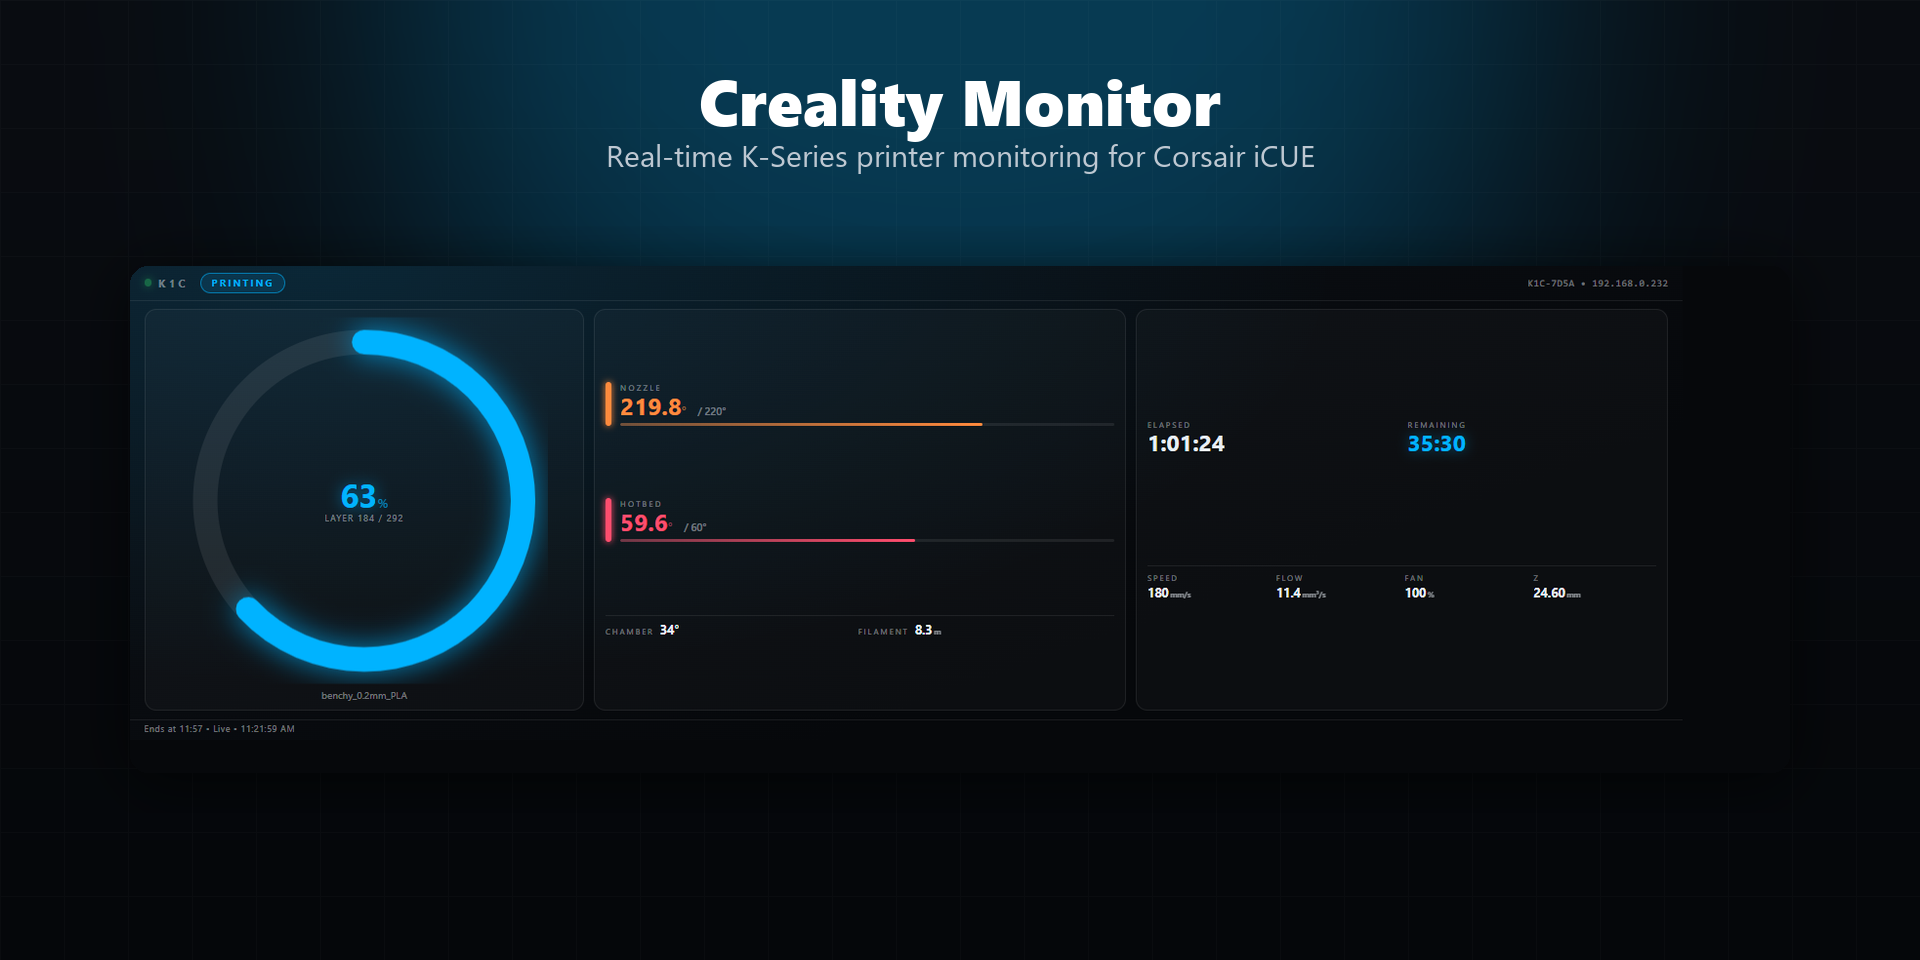
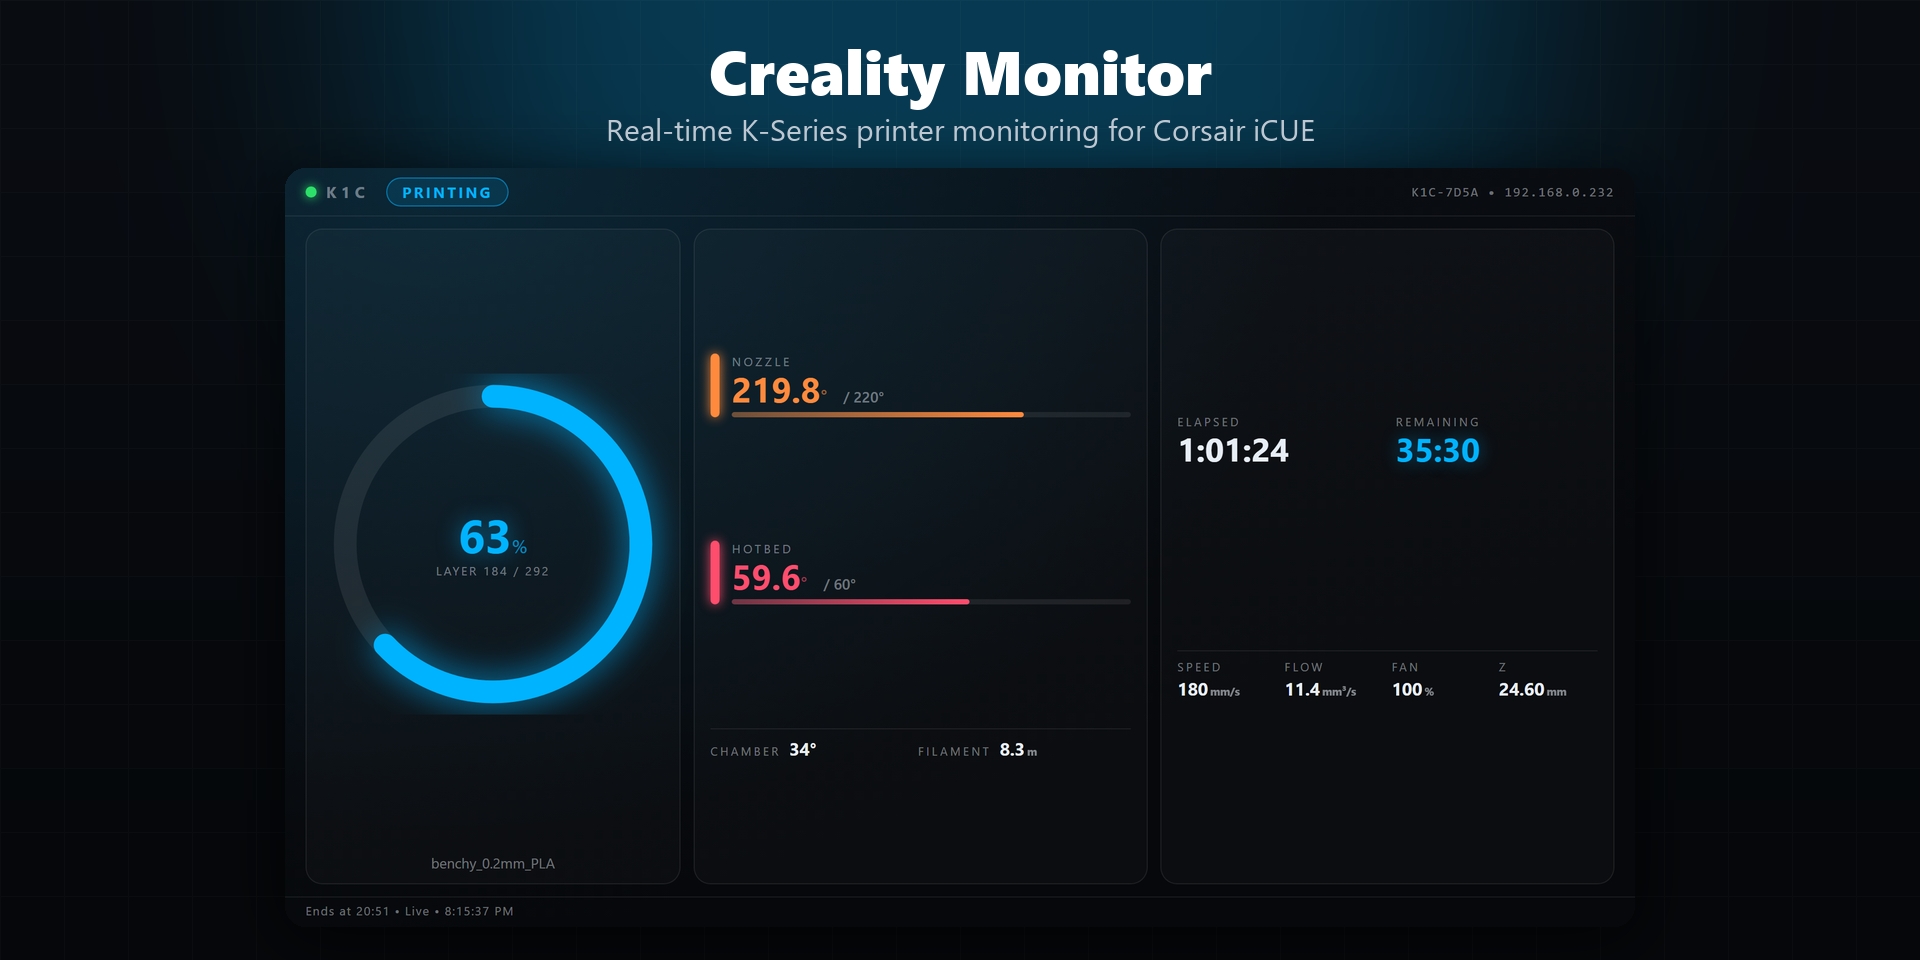
Media: real widget renders (5 states), new thumbnail/gallery and render tooling

diff --git a/tools/compose_media.py b/tools/compose_media.py
@@ -1,13 +1,9 @@
-"""Compose marketplace Thumbnail (1920x960) and Gallery (1920x960) images
-from raw widget screenshots, matching the widget's own dark theme.
+"""Composes the Marketplace thumbnail + gallery images (1920x960 PNG) from real renders of
+the widget (see render_shots.py). Each image = real widget screenshot + one short caption.
 
-Usage:
-  1. Open CrealityMonitor_Template/index.html in a browser, inject sample
-     `data`/`settings` and call `render()` to reach the desired visual state
-     (see the session notes for the exact snippets used).
-  2. Save full-page screenshots next to this script (e.g. shot_printing.png,
-     shot_complete.png).
-  3. Run `python tools/compose_media.py` from the repo root.
+Usage (from repo root):
+  python tools/render_shots.py
+  python tools/compose_media.py
 """
 from pathlib import Path
 
@@ -18,7 +14,15 @@ BG_TOP = (10, 13, 18)
 BG_BOTTOM = (5, 7, 10)
 FONT_DIR = r"C:\Windows\Fonts"
 ROOT = Path(__file__).resolve().parent.parent
+SHOTS = Path(__file__).resolve().parent / "_shots"
 MEDIA_DIR = ROOT / "media"
+
+ACCENT_BLUE = (0, 179, 255)
+ACCENT_GREEN = (46, 227, 107)
+ACCENT_AMBER = (255, 176, 32)
+ACCENT_RED = (255, 59, 59)
+
+CARD_W = 1350  # widget card width on the 1920 canvas (16:9 -> 759 tall)
 
 
 def vertical_gradient(size, top, bottom):
@@ -26,53 +30,40 @@ def vertical_gradient(size, top, bottom):
     base = Image.new("RGB", (1, h))
     for y in range(h):
         t = y / max(h - 1, 1)
-        px = tuple(int(top[i] + (bottom[i] - top[i]) * t) for i in range(3))
-        base.putpixel((0, y), px)
+        base.putpixel((0, y), tuple(int(top[i] + (bottom[i] - top[i]) * t) for i in range(3)))
     return base.resize((w, h))
 
 
 def rounded_mask(size, radius):
     mask = Image.new("L", size, 0)
-    d = ImageDraw.Draw(mask)
-    d.rounded_rectangle([0, 0, size[0] - 1, size[1] - 1], radius=radius, fill=255)
+    ImageDraw.Draw(mask).rounded_rectangle([0, 0, size[0] - 1, size[1] - 1], radius=radius, fill=255)
     return mask
 
 
 def soft_glow(size, color, blur):
     glow = Image.new("RGBA", size, (0, 0, 0, 0))
-    d = ImageDraw.Draw(glow)
-    d.ellipse([size[0] * 0.15, -size[1] * 0.4, size[0] * 0.85, size[1] * 0.6], fill=color)
+    ImageDraw.Draw(glow).ellipse([size[0] * 0.15, -size[1] * 0.4, size[0] * 0.85, size[1] * 0.6], fill=color)
     return glow.filter(ImageFilter.GaussianBlur(blur))
 
 
-def paste_card(canvas, shot_path, accent, scale=1.0, y_offset=0):
+def paste_card(canvas, shot_path, y):
     shot = Image.open(shot_path).convert("RGB")
-    sw, sh = shot.size
-    target_w = int(1660 * scale)
-    target_h = int(sh * (target_w / sw))
-    shot = shot.resize((target_w, target_h), Image.LANCZOS)
-
-    mask = rounded_mask(shot.size, 18)
-    shadow = Image.new("RGBA", (shot.width + 80, shot.height + 80), (0, 0, 0, 0))
-    sd = ImageDraw.Draw(shadow)
-    sd.rounded_rectangle([40, 48, 40 + shot.width, 48 + shot.height], radius=22,
-                          fill=(0, 0, 0, 160))
-    shadow = shadow.filter(ImageFilter.GaussianBlur(28))
-
+    shot = shot.resize((CARD_W, round(shot.height * CARD_W / shot.width)), Image.LANCZOS)
+    mask = rounded_mask(shot.size, 20)
+    shadow = Image.new("RGBA", (shot.width + 120, shot.height + 120), (0, 0, 0, 0))
+    ImageDraw.Draw(shadow).rounded_rectangle(
+        [60, 70, 60 + shot.width, 70 + shot.height], radius=24, fill=(0, 0, 0, 170)
+    )
+    shadow = shadow.filter(ImageFilter.GaussianBlur(30))
     x = (W - shot.width) // 2
-    y = (H - shot.height) // 2 + y_offset
-    canvas.paste(shadow, (x - 40, y - 40), shadow)
+    canvas.paste(shadow, (x - 60, y - 60), shadow)
     canvas.paste(shot, (x, y), mask)
-    return x, y, shot.width, shot.height
 
 
-def build(out_path, shot_path, accent, title=None, subtitle=None, badge=None):
+def build(out_name, shot_name, accent, title, subtitle):
     canvas = vertical_gradient((W, H), BG_TOP, BG_BOTTOM).convert("RGBA")
+    canvas.alpha_composite(soft_glow((W, H), accent + (70,), 180))
 
-    glow = soft_glow((W, H), accent + (70,), 180)
-    canvas.alpha_composite(glow)
-
-    # subtle grid texture
     grid = Image.new("RGBA", (W, H), (0, 0, 0, 0))
     gd = ImageDraw.Draw(grid)
     for gx in range(0, W, 64):
@@ -81,48 +72,35 @@ def build(out_path, shot_path, accent, title=None, subtitle=None, badge=None):
         gd.line([(0, gy), (W, gy)], fill=(255, 255, 255, 5))
     canvas.alpha_composite(grid)
 
-    y_offset = 40 if title else 0
-    paste_card(canvas, shot_path, accent, scale=1.0, y_offset=y_offset)
+    paste_card(canvas, SHOTS / shot_name, 168)
 
     draw = ImageDraw.Draw(canvas)
-    if title:
-        font_title = ImageFont.truetype(FONT_DIR + r"\seguibl.ttf", 64)
-        font_sub = ImageFont.truetype(FONT_DIR + r"\segoeui.ttf", 30)
-        tw = draw.textlength(title, font=font_title)
-        draw.text(((W - tw) / 2, 56), title, font=font_title, fill=(255, 255, 255, 255))
-        if subtitle:
-            sw = draw.textlength(subtitle, font=font_sub)
-            draw.text(((W - sw) / 2, 134), subtitle, font=font_sub,
-                       fill=(190, 200, 210, 255))
+    font_title = ImageFont.truetype(FONT_DIR + r"\seguibl.ttf", 62)
+    font_sub = ImageFont.truetype(FONT_DIR + r"\segoeui.ttf", 30)
+    tw = draw.textlength(title, font=font_title)
+    draw.text(((W - tw) / 2, 28), title, font=font_title, fill=(255, 255, 255, 255))
+    sw = draw.textlength(subtitle, font=font_sub)
+    draw.text(((W - sw) / 2, 108), subtitle, font=font_sub, fill=(190, 200, 210, 255))
 
-    if badge:
-        font_badge = ImageFont.truetype(FONT_DIR + r"\seguisb.ttf", 26)
-        bw = draw.textlength(badge, font=font_badge)
-        pad = 18
-        bx0, by0 = W - bw - pad * 2 - 36, H - 70
-        badge_layer = Image.new("RGBA", (W, H), (0, 0, 0, 0))
-        bdraw = ImageDraw.Draw(badge_layer)
-        bdraw.rounded_rectangle([bx0, by0, bx0 + bw + pad * 2, by0 + 44], radius=22,
-                                 fill=(10, 13, 18, 210), outline=accent + (255,), width=2)
-        bdraw.text((bx0 + pad, by0 + 9), badge, font=font_badge, fill=(255, 255, 255, 255))
-        canvas.alpha_composite(badge_layer)
-
-    canvas.convert("RGB").save(out_path, quality=95)
-    print("saved", out_path)
+    MEDIA_DIR.mkdir(exist_ok=True)
+    out = MEDIA_DIR / out_name
+    canvas.convert("RGB").save(out, "PNG", optimize=True)
+    print("saved", out)
 
 
-ACCENT_BLUE = (0, 179, 255)
-ACCENT_GREEN = (46, 227, 107)
+build("thumbnail.png", "shot_printing.png", ACCENT_BLUE,
+      "Creality Monitor", "Real-time K-Series printer monitoring for Corsair iCUE")
+build("gallery-1-printing.png", "shot_printing.png", ACCENT_BLUE,
+      "Live print progress", "Progress ring with layer count, elapsed and remaining time")
+build("gallery-2-heating.png", "shot_heating.png", ACCENT_BLUE,
+      "Nozzle and bed temperatures", "Current and target values with progress bars, plus chamber and filament")
+build("gallery-3-paused.png", "shot_paused.png", ACCENT_AMBER,
+      "Printer state at a glance", "Printing, paused, complete or failed \u2014 always visible in the header")
+build("gallery-4-complete.png", "shot_complete.png", ACCENT_GREEN,
+      "Print complete", "Know the moment your print is finished")
+build("gallery-5-failed.png", "shot_failed.png", ACCENT_RED,
+      "Failed prints are flagged", "A red FAILED pill shows the moment something goes wrong")
 
-MEDIA_DIR.mkdir(exist_ok=True)
-
-build(
-    str(MEDIA_DIR / "thumbnail.png"), str(ROOT / "shot_printing.png"), ACCENT_BLUE,
-    title="Creality Monitor",
-    subtitle="Real-time K-Series printer monitoring for Corsair iCUE",
-)
-
-build(
-    str(MEDIA_DIR / "gallery-complete.png"), str(ROOT / "shot_complete.png"), ACCENT_GREEN,
-    badge="Creality Monitor",
-)
+if (SHOTS / "shot_camera.png").exists():
+    build("gallery-6-camera.png", "shot_camera.png", ACCENT_BLUE,
+          "Live camera", "Optional WebRTC camera feed from the printer")

diff --git a/tools/render_shots.py b/tools/render_shots.py
@@ -1,0 +1,102 @@
+"""Renders the REAL widget (CrealityMonitor_Template/index.html + main.css + main.js)
+in headless Edge with sample printer data, one screenshot per state.
+
+The widget is vh-responsive; 1280x720 is roughly half of a Xeneon Edge (2560x720 is the
+full screen), so the shots look like the widget does on the device.
+
+Usage (from repo root):  python tools/render_shots.py   ->  tools/_shots/shot_<state>.png
+Then:                    python tools/compose_media.py
+"""
+import json
+import re
+import shutil
+import subprocess
+import tempfile
+from pathlib import Path
+
+ROOT = Path(__file__).resolve().parent.parent
+TEMPLATE = ROOT / "CrealityMonitor_Template"
+OUT = Path(__file__).resolve().parent / "_shots"
+EDGE = r"C:\Program Files (x86)\Microsoft\Edge\Application\msedge.exe"
+VIEW_W, VIEW_H, SCALE = 1280, 720, 2
+
+BASE = {
+    "model": "K1C",
+    "hostname": "K1C-7D5A",
+    "printFileName": "/usr/data/printer_data/gcodes/benchy_0.2mm_PLA.gcode",
+    "TotalLayer": 292,
+    "maxNozzleTemp": 300,
+    "maxBedTemp": 100,
+    "boxTemp": 34,
+    "usedMaterialLength": 8300,
+    "curPosition": "X:110.00 Y:110.00 Z:24.60",
+    "realTimeSpeed": 180,
+    "realTimeFlow": 11.4,
+    "modelFanPct": 100,
+}
+
+STATES = {
+    "printing": dict(state=1, printProgress=63, layer=184, nozzleTemp=219.8, targetNozzleTemp=220,
+                     bedTemp0=59.6, targetBedTemp0=60, printJobTime=3684, printLeftTime=2130),
+    "heating": dict(state=1, printProgress=1, layer=2, nozzleTemp=148.3, targetNozzleTemp=220,
+                    bedTemp0=47.9, targetBedTemp0=60, printJobTime=95, printLeftTime=5400,
+                    realTimeSpeed=40, realTimeFlow=1.2, modelFanPct=0, curPosition="X:30.00 Y:20.00 Z:0.40"),
+    "paused": dict(state=4, printProgress=41, layer=120, nozzleTemp=215.1, targetNozzleTemp=220,
+                   bedTemp0=60.0, targetBedTemp0=60, printJobTime=2410, printLeftTime=3400,
+                   realTimeSpeed=0, realTimeFlow=0, modelFanPct=0),
+    "complete": dict(state=2, printProgress=100, layer=292, TotalLayer=292, nozzleTemp=32.1, targetNozzleTemp=0,
+                     bedTemp0=28.4, targetBedTemp0=0, printJobTime=5840, printLeftTime=0, boxTemp=26,
+                     realTimeSpeed=0, realTimeFlow=0, modelFanPct=0, curPosition="X:0.00 Y:0.00 Z:30.00"),
+    "failed": dict(state=3, printProgress=37, layer=108, nozzleTemp=120.5, targetNozzleTemp=0,
+                   bedTemp0=45.0, targetBedTemp0=0, printJobTime=1980, printLeftTime=0,
+                   realTimeSpeed=0, realTimeFlow=0, modelFanPct=0),
+}
+
+
+def harness(index_html: str, state: dict, camera_frame: str | None = None) -> str:
+    html = re.sub(r"<meta http-equiv=\"Content-Security-Policy\".*?/>", "", index_html, flags=re.S)
+    stub = "<script>window.WebSocket=function(){this.readyState=0;this.send=function(){};this.close=function(){};};</script>\n"
+    data = {**BASE, **state}
+    cam = ""
+    if camera_frame:
+        cam = f'el["cam"].poster = {json.dumps(camera_frame)}; setCamBadge("LIVE", true);\n'
+    inject = (
+        "<script>\n"
+        f"settings.showCamera = {json.dumps(bool(camera_frame))}; applyCameraVisibility();\n"
+        f"data = {json.dumps(data)};\n"
+        "setOnline(true); render();\n"
+        + cam +
+        "</script>\n"
+    )
+    html = html.replace('<script src="scripts/main.js"></script>', stub + '<script src="scripts/main.js"></script>\n' + inject)
+    return html
+
+
+def main() -> None:
+    OUT.mkdir(exist_ok=True)
+    index_html = (TEMPLATE / "index.html").read_text(encoding="utf-8")
+    frame = next(iter(sorted(Path(__file__).resolve().parent.glob("camera-frame.*"))), None)
+    jobs = [(name, state, None) for name, state in STATES.items()]
+    if frame:
+        jobs.append(("camera", STATES["printing"], frame.name))
+    with tempfile.TemporaryDirectory() as tmp:
+        work = Path(tmp) / "widget"
+        shutil.copytree(TEMPLATE, work)
+        if frame:
+            shutil.copy(frame, work / frame.name)
+        for name, state, cam_frame in jobs:
+            page = work / f"_{name}.html"
+            page.write_text(harness(index_html, state, cam_frame), encoding="utf-8")
+            out = OUT / f"shot_{name}.png"
+            subprocess.run(
+                [EDGE, "--headless=new", "--disable-gpu", "--hide-scrollbars",
+                 f"--screenshot={out}", f"--window-size={VIEW_W},{VIEW_H}",
+                 f"--force-device-scale-factor={SCALE}", "--virtual-time-budget=4000",
+                 page.as_uri()],
+                check=True, capture_output=True,
+            )
+            print("rendered", out)
+
+
+if __name__ == "__main__":
+    main()

diff --git a/README.md b/README.md
@@ -11,7 +11,8 @@ Home Assistant, no extra software required on the printer or your PC).
 Free, open source, and available on the iCUE Marketplace.
 
 ![Creality Monitor thumbnail](media/thumbnail.png)
-![Creality Monitor — complete state](media/gallery-complete.png)
+![Creality Monitor — printing](media/gallery-1-printing.png)
+![Creality Monitor — complete](media/gallery-4-complete.png)
 ![Creality Monitor — screenshot](media/Screenshot.png)
 
 ## Features
@@ -86,7 +87,8 @@ Import the resulting file in iCUE via **Xeneon Edge → Add Widget → Import**.
 |---|---|
 | `CrealityMonitor_Template/` | Widget source (what gets packaged) |
 | `pack.ps1` | Validates + packages a release build |
-| `tools/compose_media.py` | Generates the marketing screenshots in `media/` from the live widget |
+| `tools/render_shots.py` | Renders the real widget with sample data (headless Edge) into `tools/_shots/` |
+| `tools/compose_media.py` | Composes the 1920x960 marketing images in `media/` from those renders |
 | `media/` | Marketplace/GitHub preview images |
 
 ## Privacy & permissions
